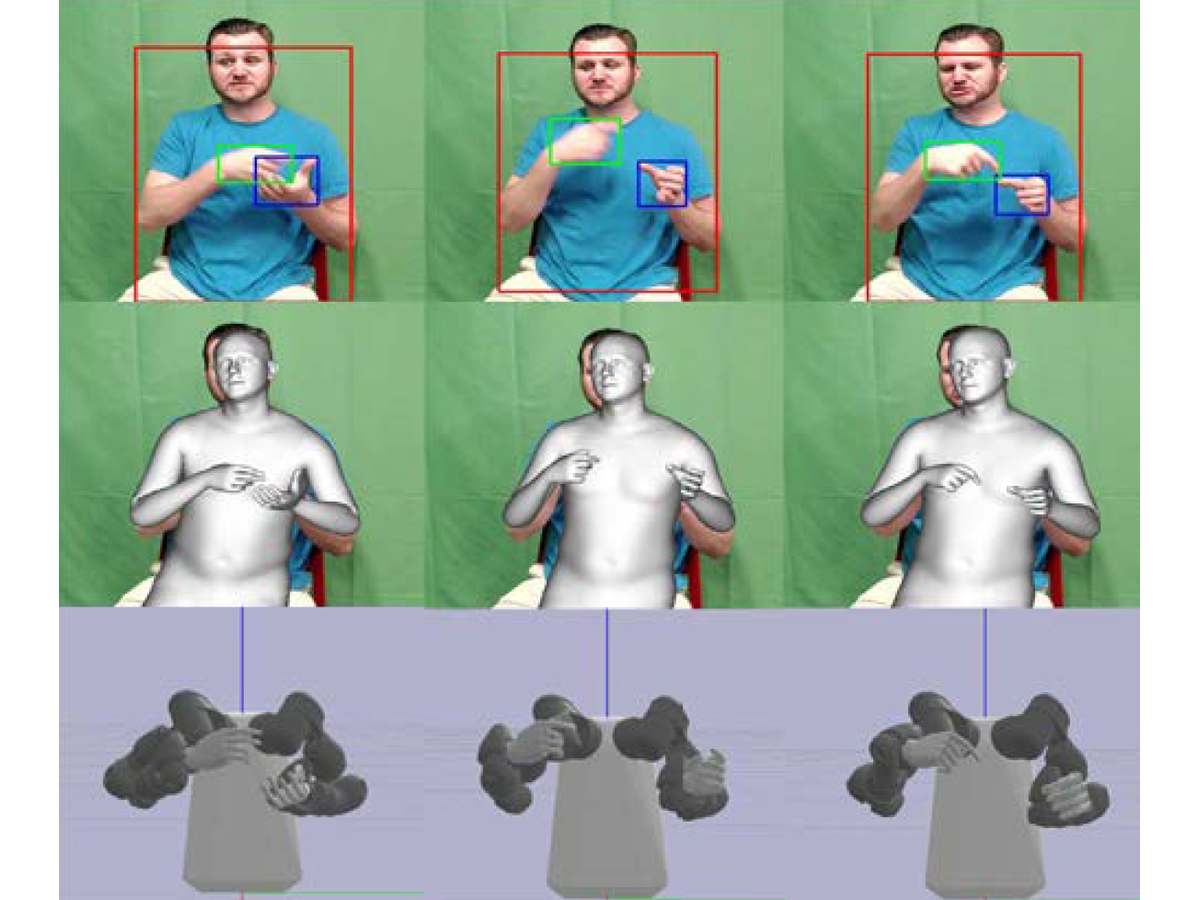
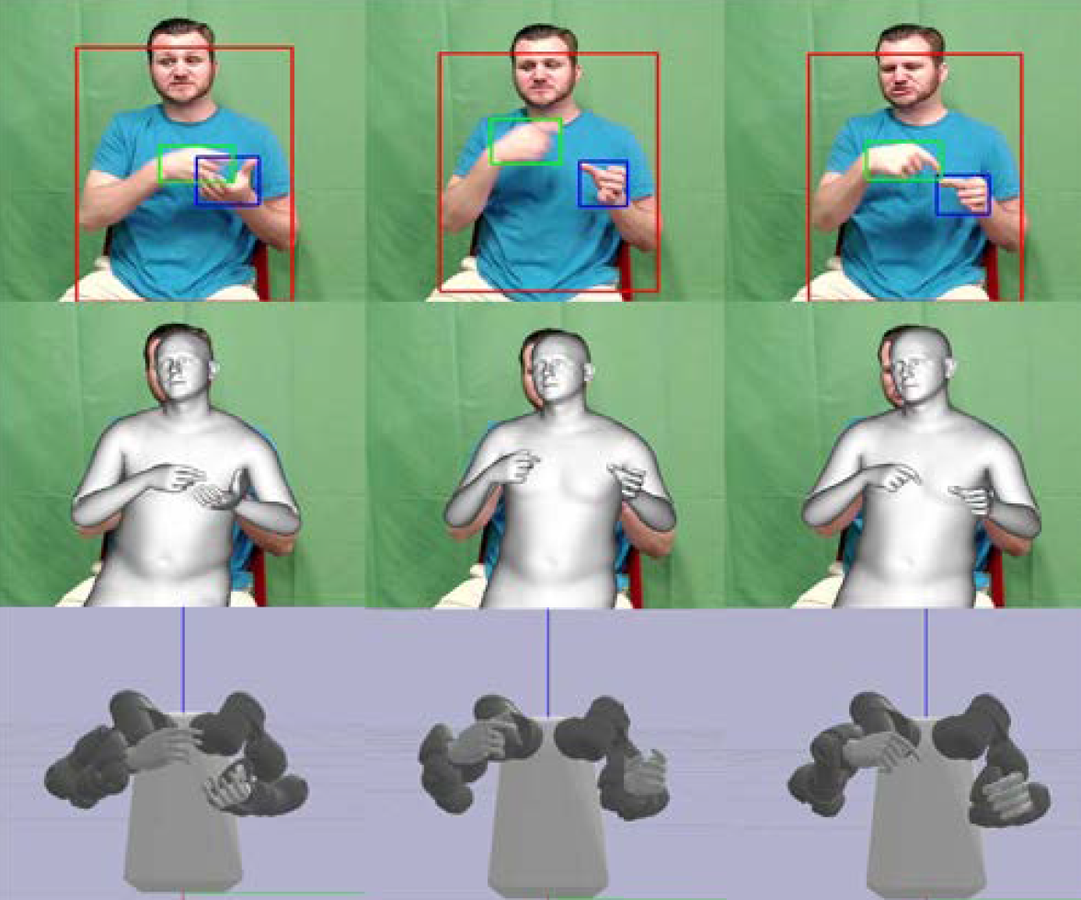
update

diff --git a/index.html b/index.html
@@ -170,7 +170,7 @@
     <tr onmouseout="power_stop()" onmouseover="power_start()">
       <td style="padding:16px;width:20%;vertical-align:middle">
         <div class="one">
-          <img src='images/RCAR2025.png' width="160">
+          <img src='images/RCAR2025.png' width="180">
         </div>
       </td>
       <td style="padding:8px;width:80%;vertical-align:middle">
